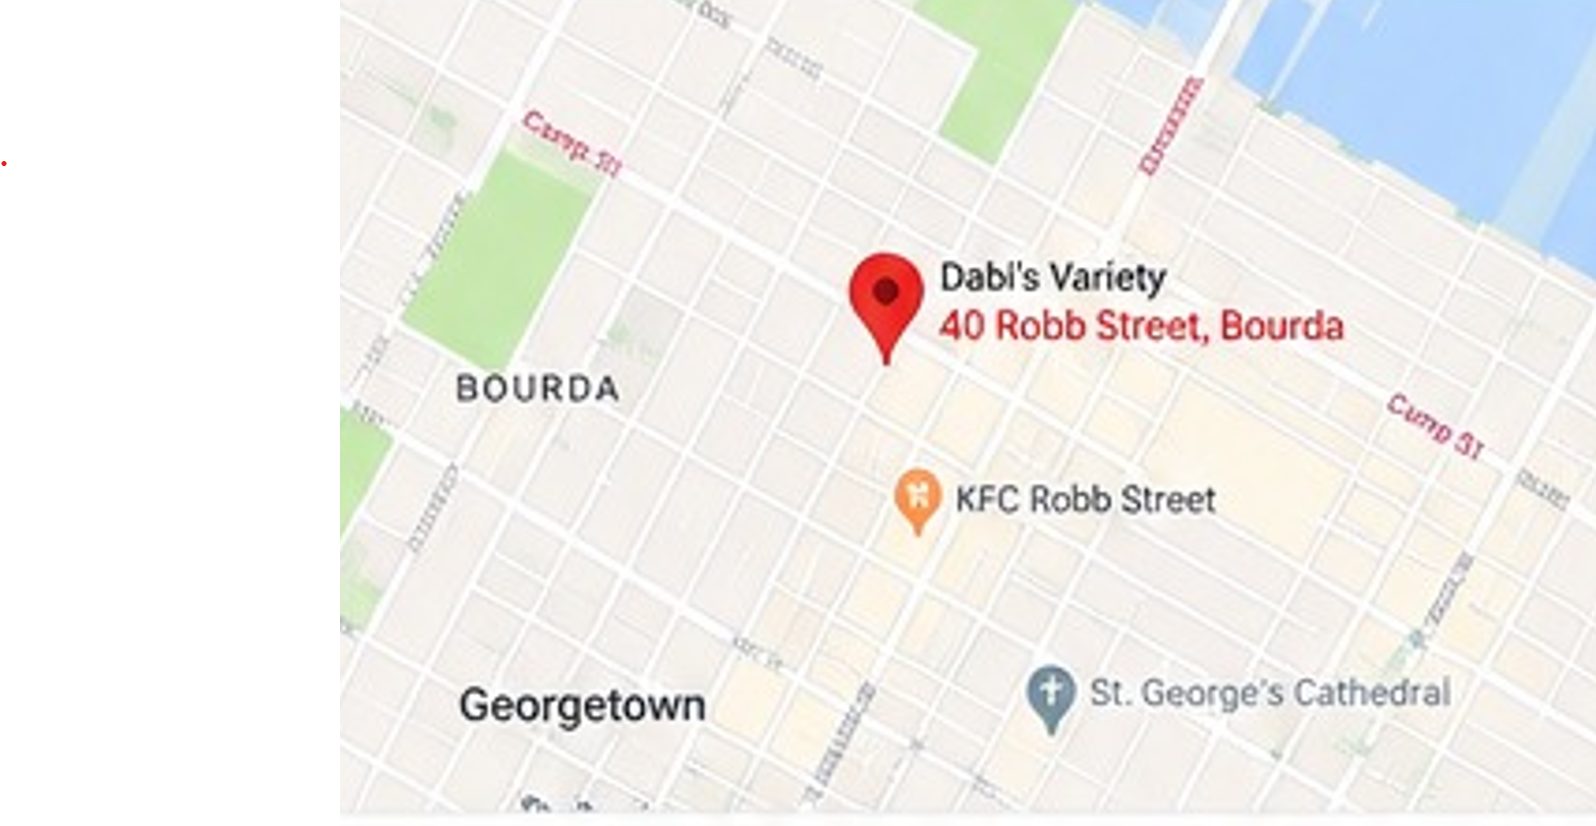
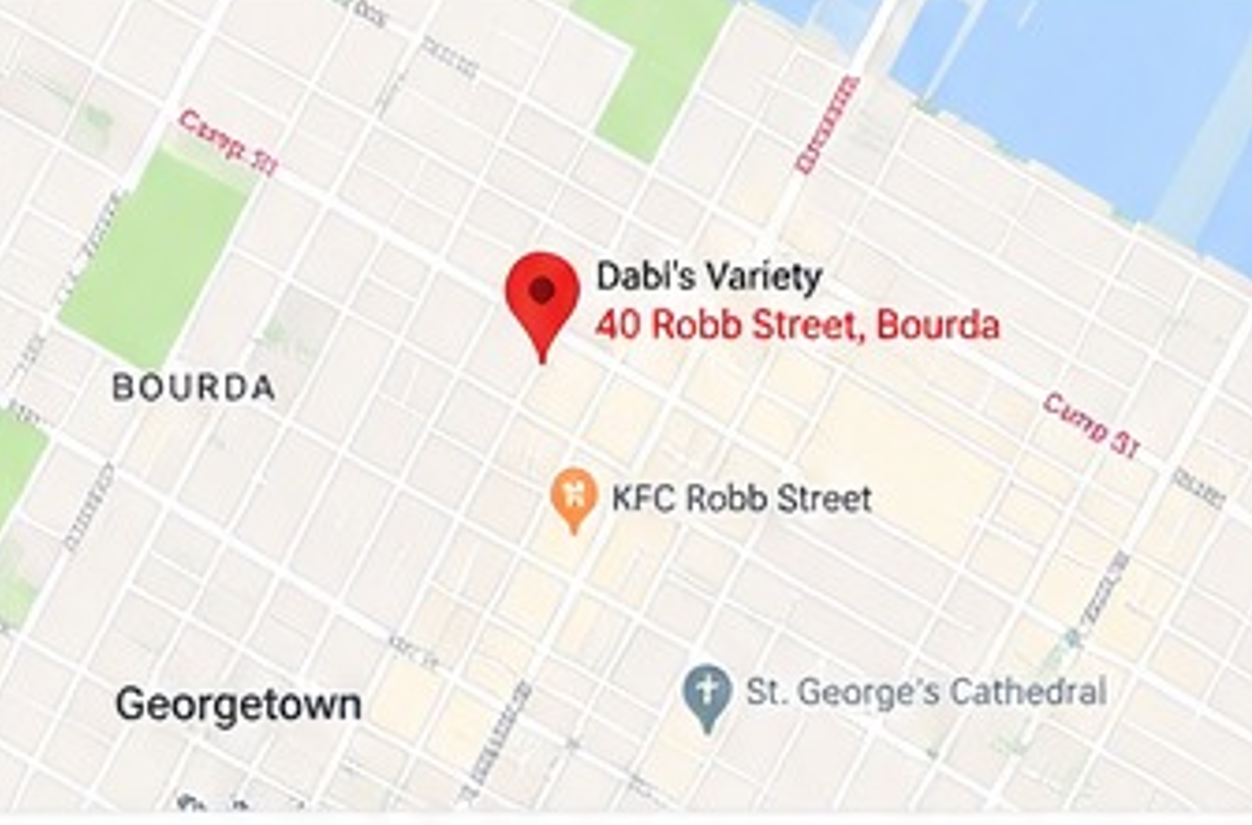
Updated colors

diff --git a/dabis/index.html b/dabis/index.html
@@ -432,7 +432,7 @@
                         </div>
                     </div>
                     <div class="stack pad_5 span-2-col">
-                        <img src="/static/img/dabis/map.png" alt="" class="">
+                        <img src="/static/img/dabis/map.png" alt="" class="oa t-2 round">
                     </div>
                 </div>
             </div>

diff --git a/logs/joashgobin-2026-09-30.md b/logs/joashgobin-2026-09-30.md
@@ -17,3 +17,4 @@
 - Updated home page
 - Tweak
 - Fix
+- Updated colors
